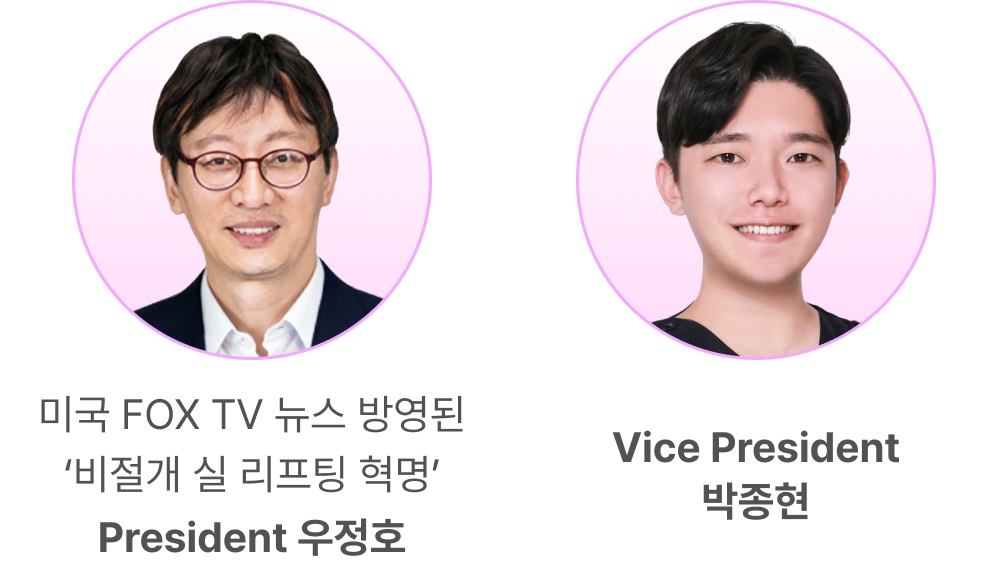
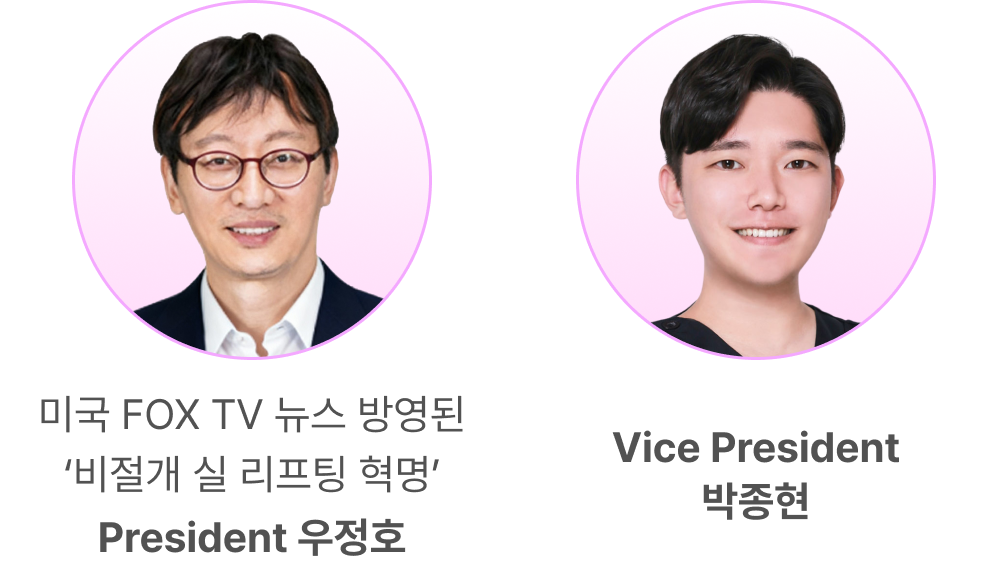
feat: Update About page with new profile images and multilingual content
- Replace k-doc_make images with individual profile_woo and profile_park images
- Add profile descriptions for Dr. Woo Jung Ho and Dr. Park Jong Hyeon
- Update English translations: 'People who make K-DOC' → 'The People Behind K-DOC'
- Update CEO greeting section title from 'CEO Message' → 'CEO Greetings'
- Add multilingual profile text (Korean, English, Thai)
- Implement responsive grid layout for profile images
- Add proper text styling and spacing for profile information

diff --git a/features/about/ui/AboutHero.tsx b/features/about/ui/AboutHero.tsx
@@ -8,35 +8,42 @@ interface AboutHeroProps {
 }
 
 export function AboutHero({ lang, dict }: AboutHeroProps) {
-  // 언어별 이미지 경로 설정
-  const getImageSrc = (locale: Locale) => {
-    switch (locale) {
-      case 'ko':
-        return '/images/k-doc_make_kr.png';
-      case 'en':
-        return '/images/k-doc_make_en.png';
-      case 'th':
-        return '/images/k-doc_make_th.png';
-      default:
-        return '/images/k-doc_make_kr.png';
-    }
-  };
-
   return (
     <>
       <h1 className='text-primary text-5xl font-bold'>{dict.about.title}</h1>
       <div className='mt-8'>
         <h2 className='text-primary text-2xl font-bold'>{dict.about.subtitle}</h2>
       </div>
-      <div className='mt-6'>
-        <Image
-          src={getImageSrc(lang)}
-          alt={dict.about.subtitle}
-          width={468}
-          height={387}
-          className='w-full object-contain'
-          priority
-        />
+      <div className='mt-6 grid grid-cols-2'>
+        <div className='flex flex-col items-center'>
+          <Image
+            src='/images/profile_woo.png'
+            alt='Dr. Woo Jung Ho'
+            width={120}
+            height={198}
+            className='w-[120px] object-contain'
+            priority
+          />
+          <div className='mt-2 text-center'>
+            <p className='text-xs font-normal text-neutral-600 whitespace-pre-line'>{dict.about.profiles.woo.description}</p>
+            <p className='text-xs font-bold text-neutral-600 mt-0.5'>{dict.about.profiles.woo.name}</p>
+          </div>
+        </div>
+        <div className='flex flex-col items-center'>
+          <Image
+            src='/images/profile_park.png'
+            alt='Dr. Park Jong Hyeon'
+            width={120}
+            height={198}
+            className='w-[120px] object-contain'
+            priority
+          />
+          <div className='mt-2 text-center flex items-center justify-center h-full'>
+            <p className='text-xs font-bold text-neutral-600 whitespace-pre-line'>
+              {dict.about.profiles.park.name}
+            </p>
+          </div>
+        </div>
       </div>
     </>
   );
